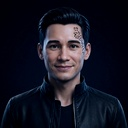
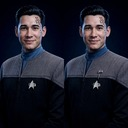
v000.6.041: uniform standardization — 23 portraits to First Contact grey (faces preserved, Picard framing)

diff --git a/index.html b/index.html
@@ -983,7 +983,7 @@ label{font-size:13px;color:var(--dim);letter-spacing:1px;text-transform:uppercas
    chokepoints: portraitSrc, crewPoolUrls, crewPortraitFor, shipPic,
    compArtFor, stationPic, stationMapIcon, shuttlePic. Idempotent: a URL
    already carrying the current bust marker is returned untouched. ---- */
-const ART_BUST='v000.6.040';
+const ART_BUST='v000.6.041';
 function bustUrl(u){if(!u||u.indexOf('data:')===0||u.indexOf('v='+ART_BUST)>=0)return u;return u+(u.indexOf('?')>=0?'&':'?')+'v='+ART_BUST;}
 function $(id){return document.getElementById(id);}
 function rnd(a,b){return a+Math.random()*(b-a);}
@@ -16629,7 +16629,7 @@ window.onload=function(){
 <aside id="menuDrawer">
   <div id="drawerHead"><h2>Menu</h2><button id="drawerClose" onclick="closeTabMenu()" aria-label="Close menu">&times;</button></div>
   <div id="menuList"></div>
-  <div style="text-align:center;color:#5a6b7d;font-size:11px;padding:14px 0 8px;opacity:.7;">v000.6.040 — The Stylized Fleet</div>
+  <div style="text-align:center;color:#5a6b7d;font-size:11px;padding:14px 0 8px;opacity:.7;">v000.6.041 — The Stylized Fleet</div>
   <div style="text-align:center;color:#5a6b7d;font-size:11px;padding:0 0 10px;opacity:.7;">Ship &amp; shuttlecraft profile artwork: <a href="https://www.ex-astris-scientia.org/fleet-charts.htm" target="_blank" style="color:#7d92ad;text-decoration:none;">Ex Astris Scientia</a></div>
 </aside>
 <script>if("serviceWorker" in navigator){navigator.serviceWorker.register("sw.js").then(function(r){r.addEventListener("updatefound",function(){var w=r.installing;w.addEventListener("statechange",function(){if(w.state==="activated"&&navigator.serviceWorker.controller){try{showUpdateBanner();}catch(e){}}});});});}</script>

diff --git a/sw.js b/sw.js
@@ -1,4 +1,4 @@
-const C = 'stfc-v000.6.040';
+const C = 'stfc-v000.6.041';
 self.addEventListener('install', e => {
   e.waitUntil(caches.open(C).then(c => c.addAll(['./', 'index.html', 'manifest.json'])).then(() => self.skipWaiting()));
 });
